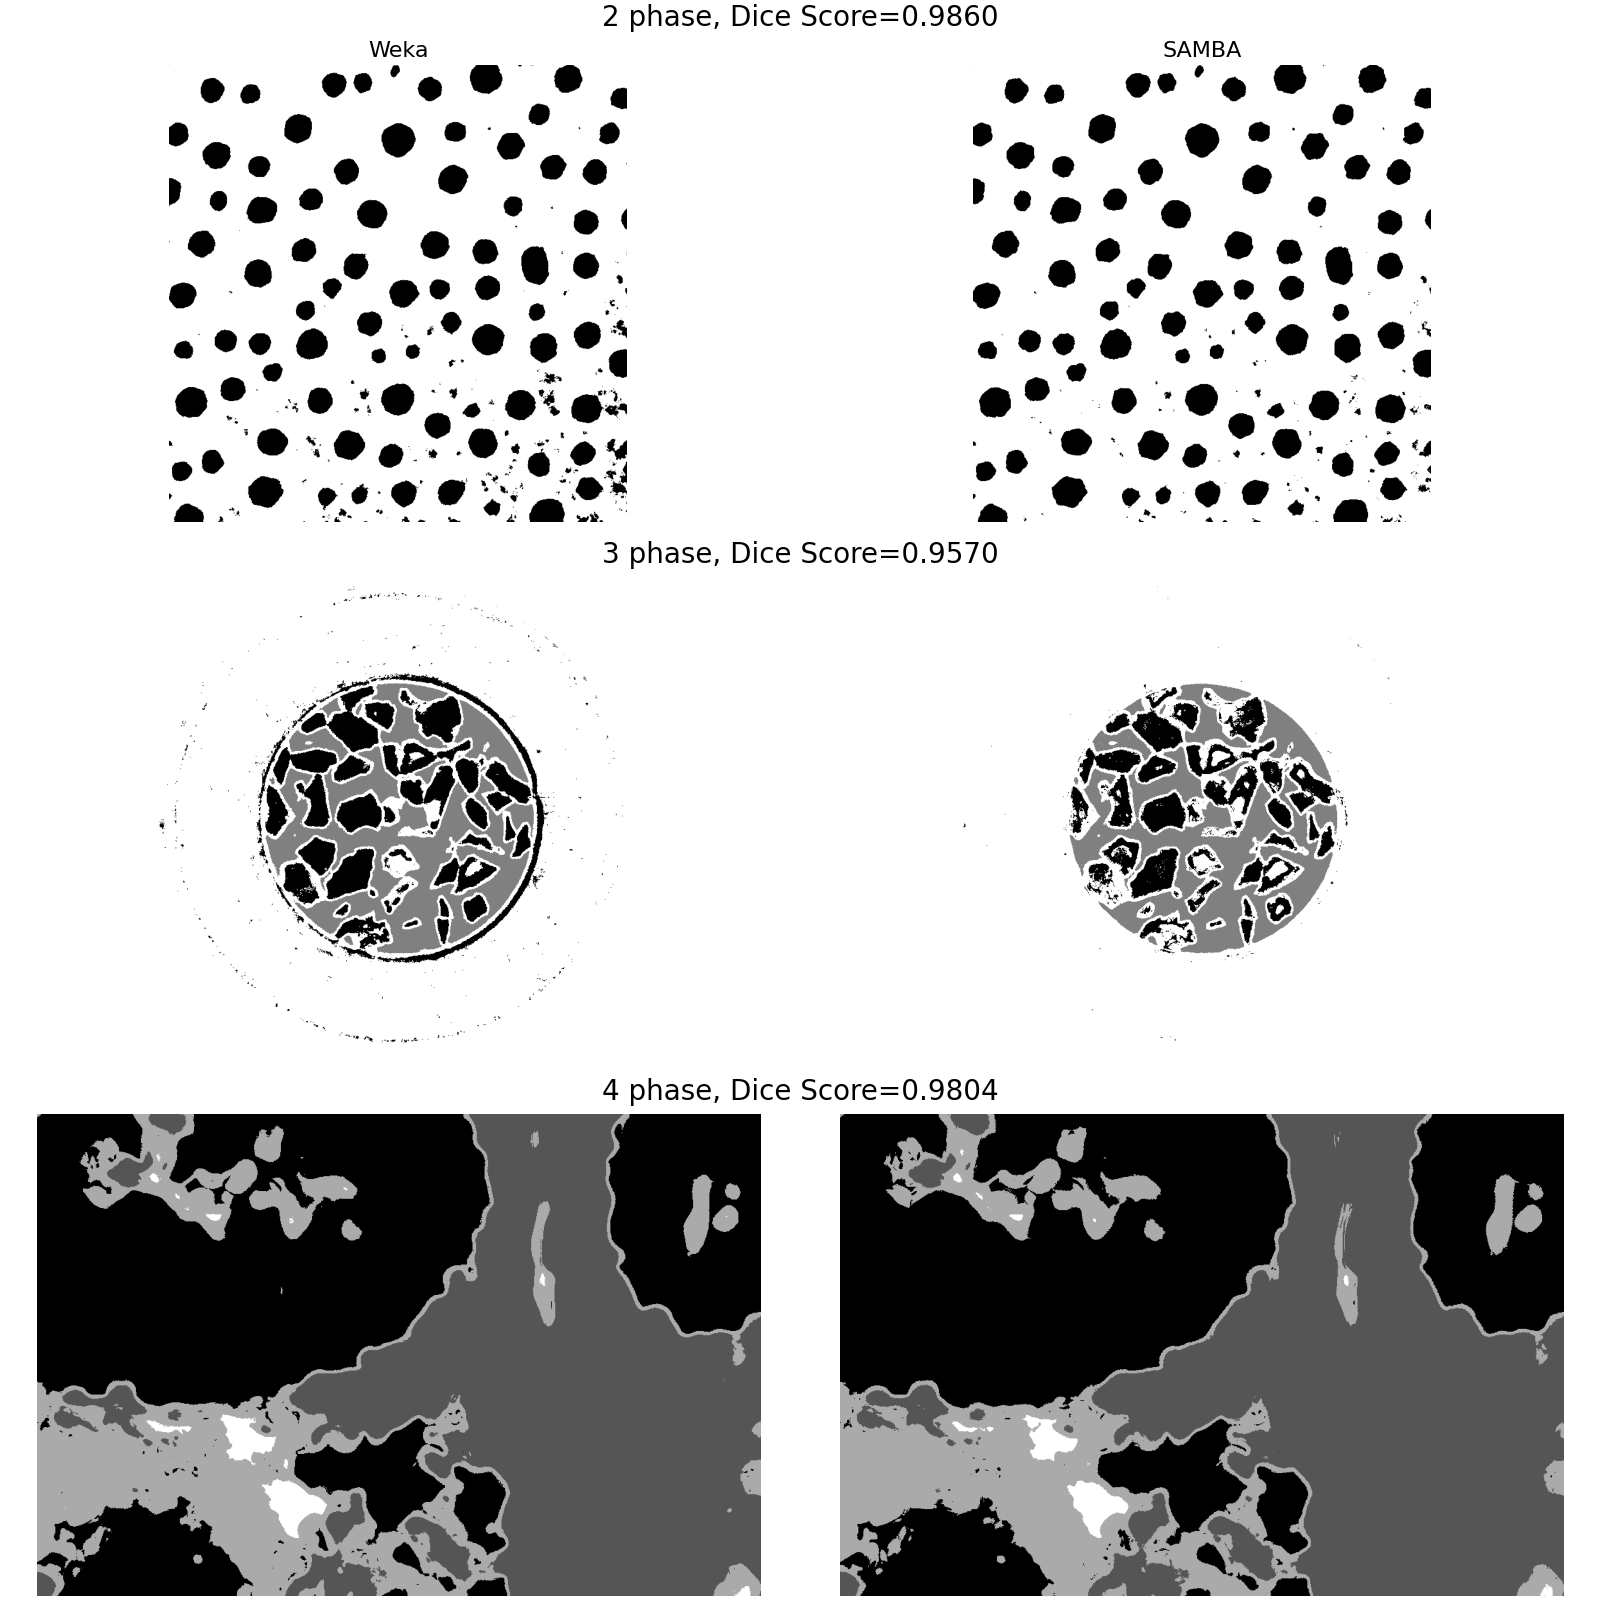
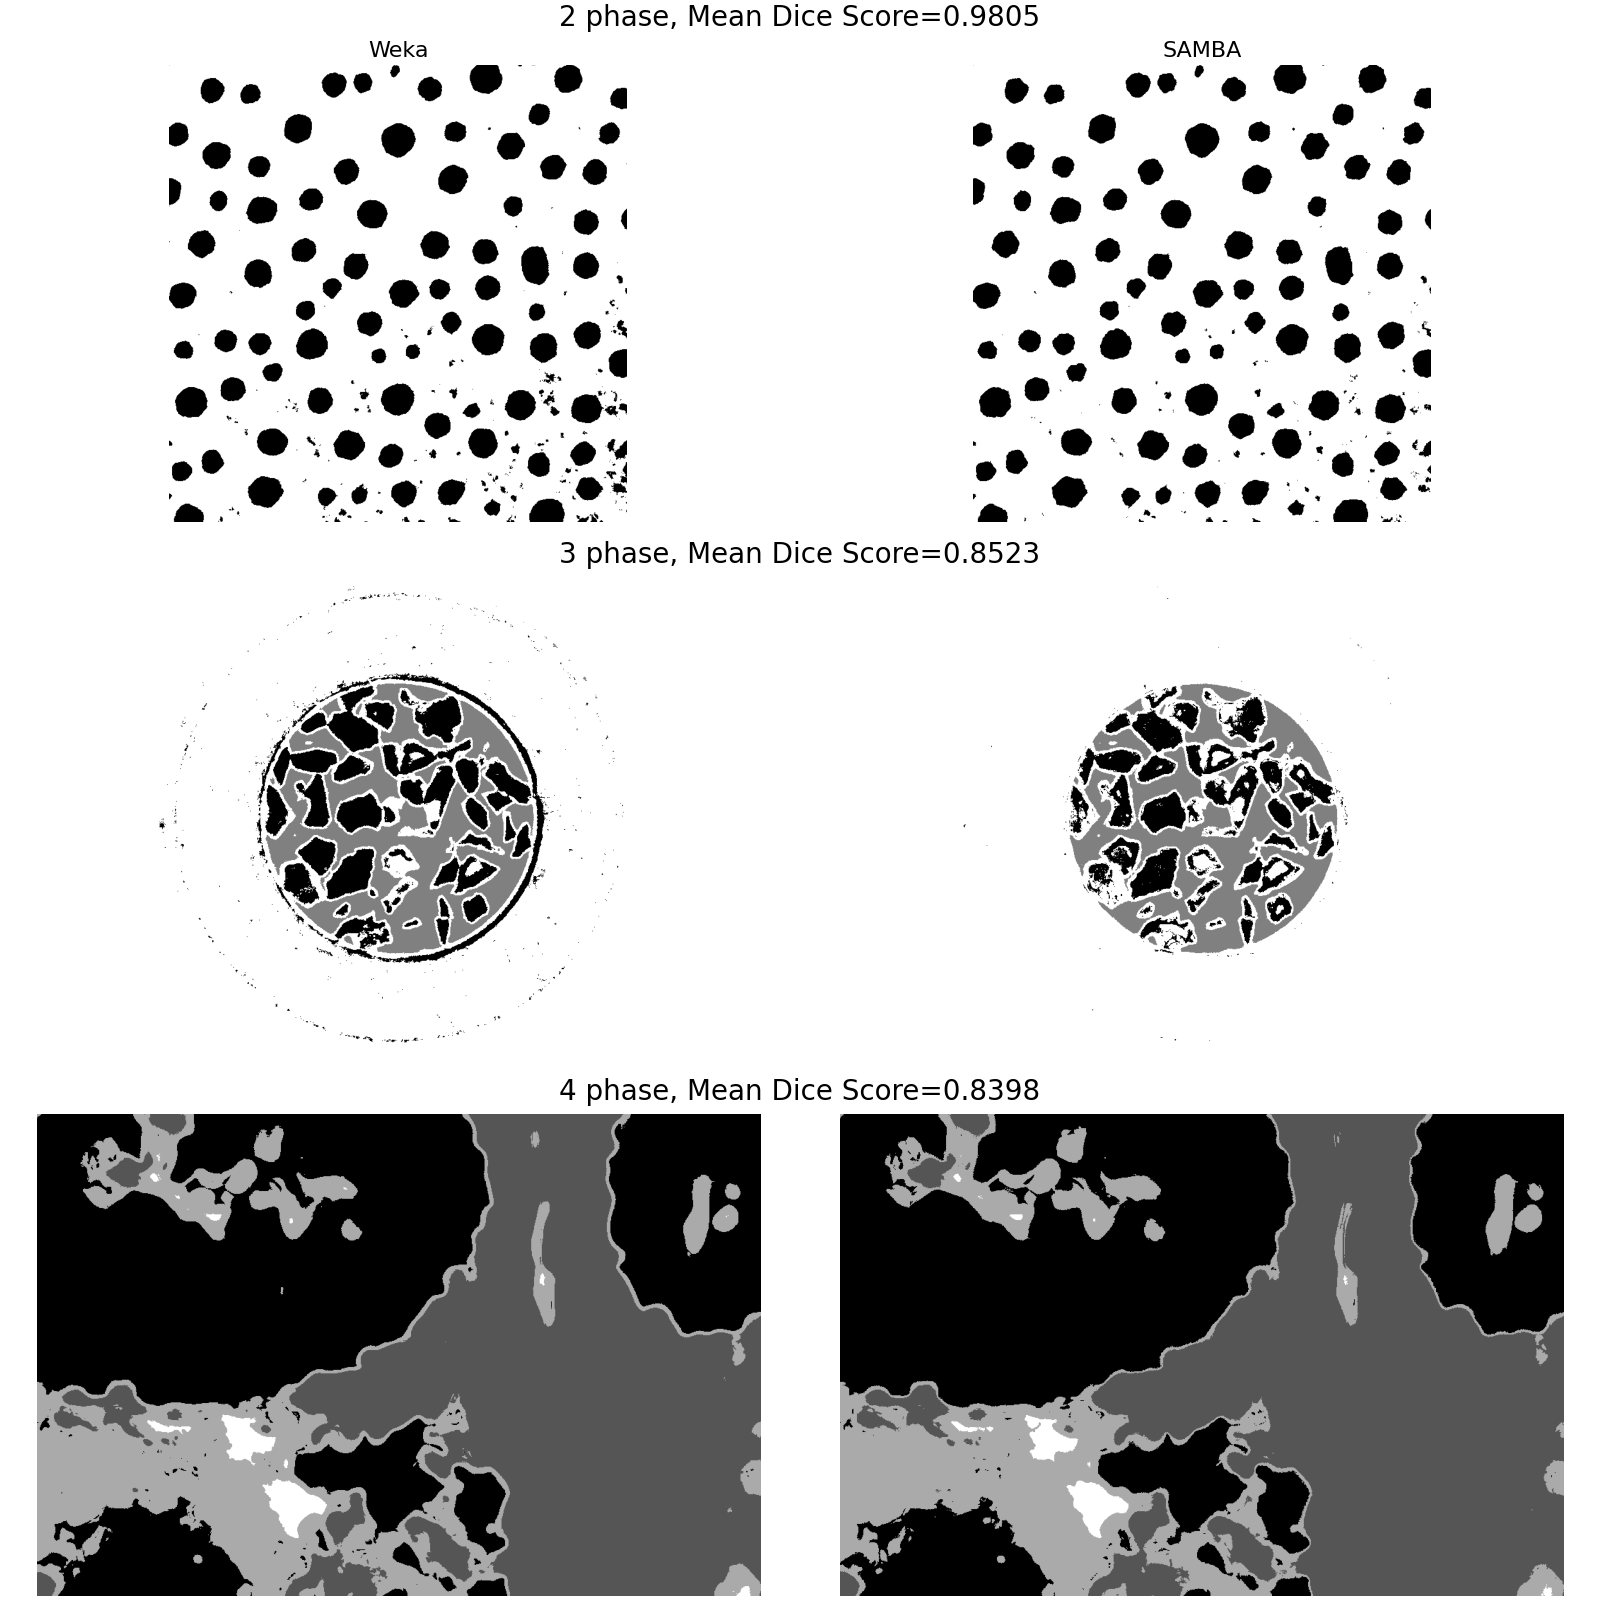
Update end-to-end tests to use class weighted mean Dice score rather than global Dice score (to account for imbalanced classes). Mean score is now lower but still above 0.8 threshold.

diff --git a/backend/tests.py b/backend/tests.py
@@ -391,7 +391,7 @@ class CompareDefaultFeatures(unittest.TestCase):
 
 
 def get_scores(gt: np.ndarray, seg: np.ndarray) -> Tuple[float, float]:
-    """Compute iou and dice scores for 2 arrays of same shape.
+    """Compute (class average) iou and dice scores for 2 arrays of same shape. 
 
     :param gt: reference arr - the weka segmentation
     :type gt: np.ndarray
@@ -404,9 +404,24 @@ def get_scores(gt: np.ndarray, seg: np.ndarray) -> Tuple[float, float]:
     flat_seg = seg.flatten()
     boolean_out = np.where(flat_gt == flat_seg, 1, 0)
     A, B, A_U_B = len(flat_gt), len(flat_seg), np.sum(boolean_out)
-    iou_score = A_U_B / (A + B - A_U_B)
-    dice_similarity = A_U_B * 2 / (A + B)
-    return iou_score, dice_similarity
+    global_iou_score = A_U_B / (A + B - A_U_B)
+    global_dice_similarity = A_U_B * 2 / (A + B)
+
+    class_dice_scores, class_iou_scores = [], []
+    for c in np.unique(flat_gt):
+        true_positives = np.where(flat_gt == flat_seg, 1, 0) * np.where(flat_seg == c, 1, 0)
+        false_positives = np.where(flat_gt != flat_seg, 1, 0) * np.where(flat_seg == c, 1, 0)
+        false_negatives = np.where(flat_gt != flat_seg, 1, 0) * np.where(flat_seg != c, 1, 0)
+        N_TP = np.sum(true_positives)
+        N_FP = np.sum(false_positives)
+        N_FN = np.sum(false_negatives)
+        class_dice_score = 2 * N_TP / (2 * N_TP + N_FP + N_FN)
+        class_dice_scores.append(class_dice_score)
+        class_iou = N_TP / (N_TP + N_FP + N_FN)
+        class_iou_scores.append(class_iou)
+    class_avg_dice_score = np.mean(class_dice_scores, axis=0)
+    print(global_dice_similarity, class_avg_dice_score)
+    return global_iou_score, class_avg_dice_score
 
 
 class CompareSegmentations(unittest.TestCase):
@@ -498,7 +513,7 @@ class CompareSegmentations(unittest.TestCase):
         fig = plt.figure(num=1, constrained_layout=True, figsize=(16, 16))
         subfigs = fig.subfigures(nrows=3, ncols=1)
         for row, sfig in enumerate(subfigs):
-            sfig.suptitle(f"{2+row} phase, Dice Score={scores[row]:.4f}", fontsize=20)
+            sfig.suptitle(f"{2+row} phase, Mean Dice Score={scores[row]:.4f}", fontsize=20)
             axs = sfig.subplots(nrows=1, ncols=2)
             axs[0].imshow(weka_segs[row], cmap="gist_gray")
             axs[0].set_axis_off()
